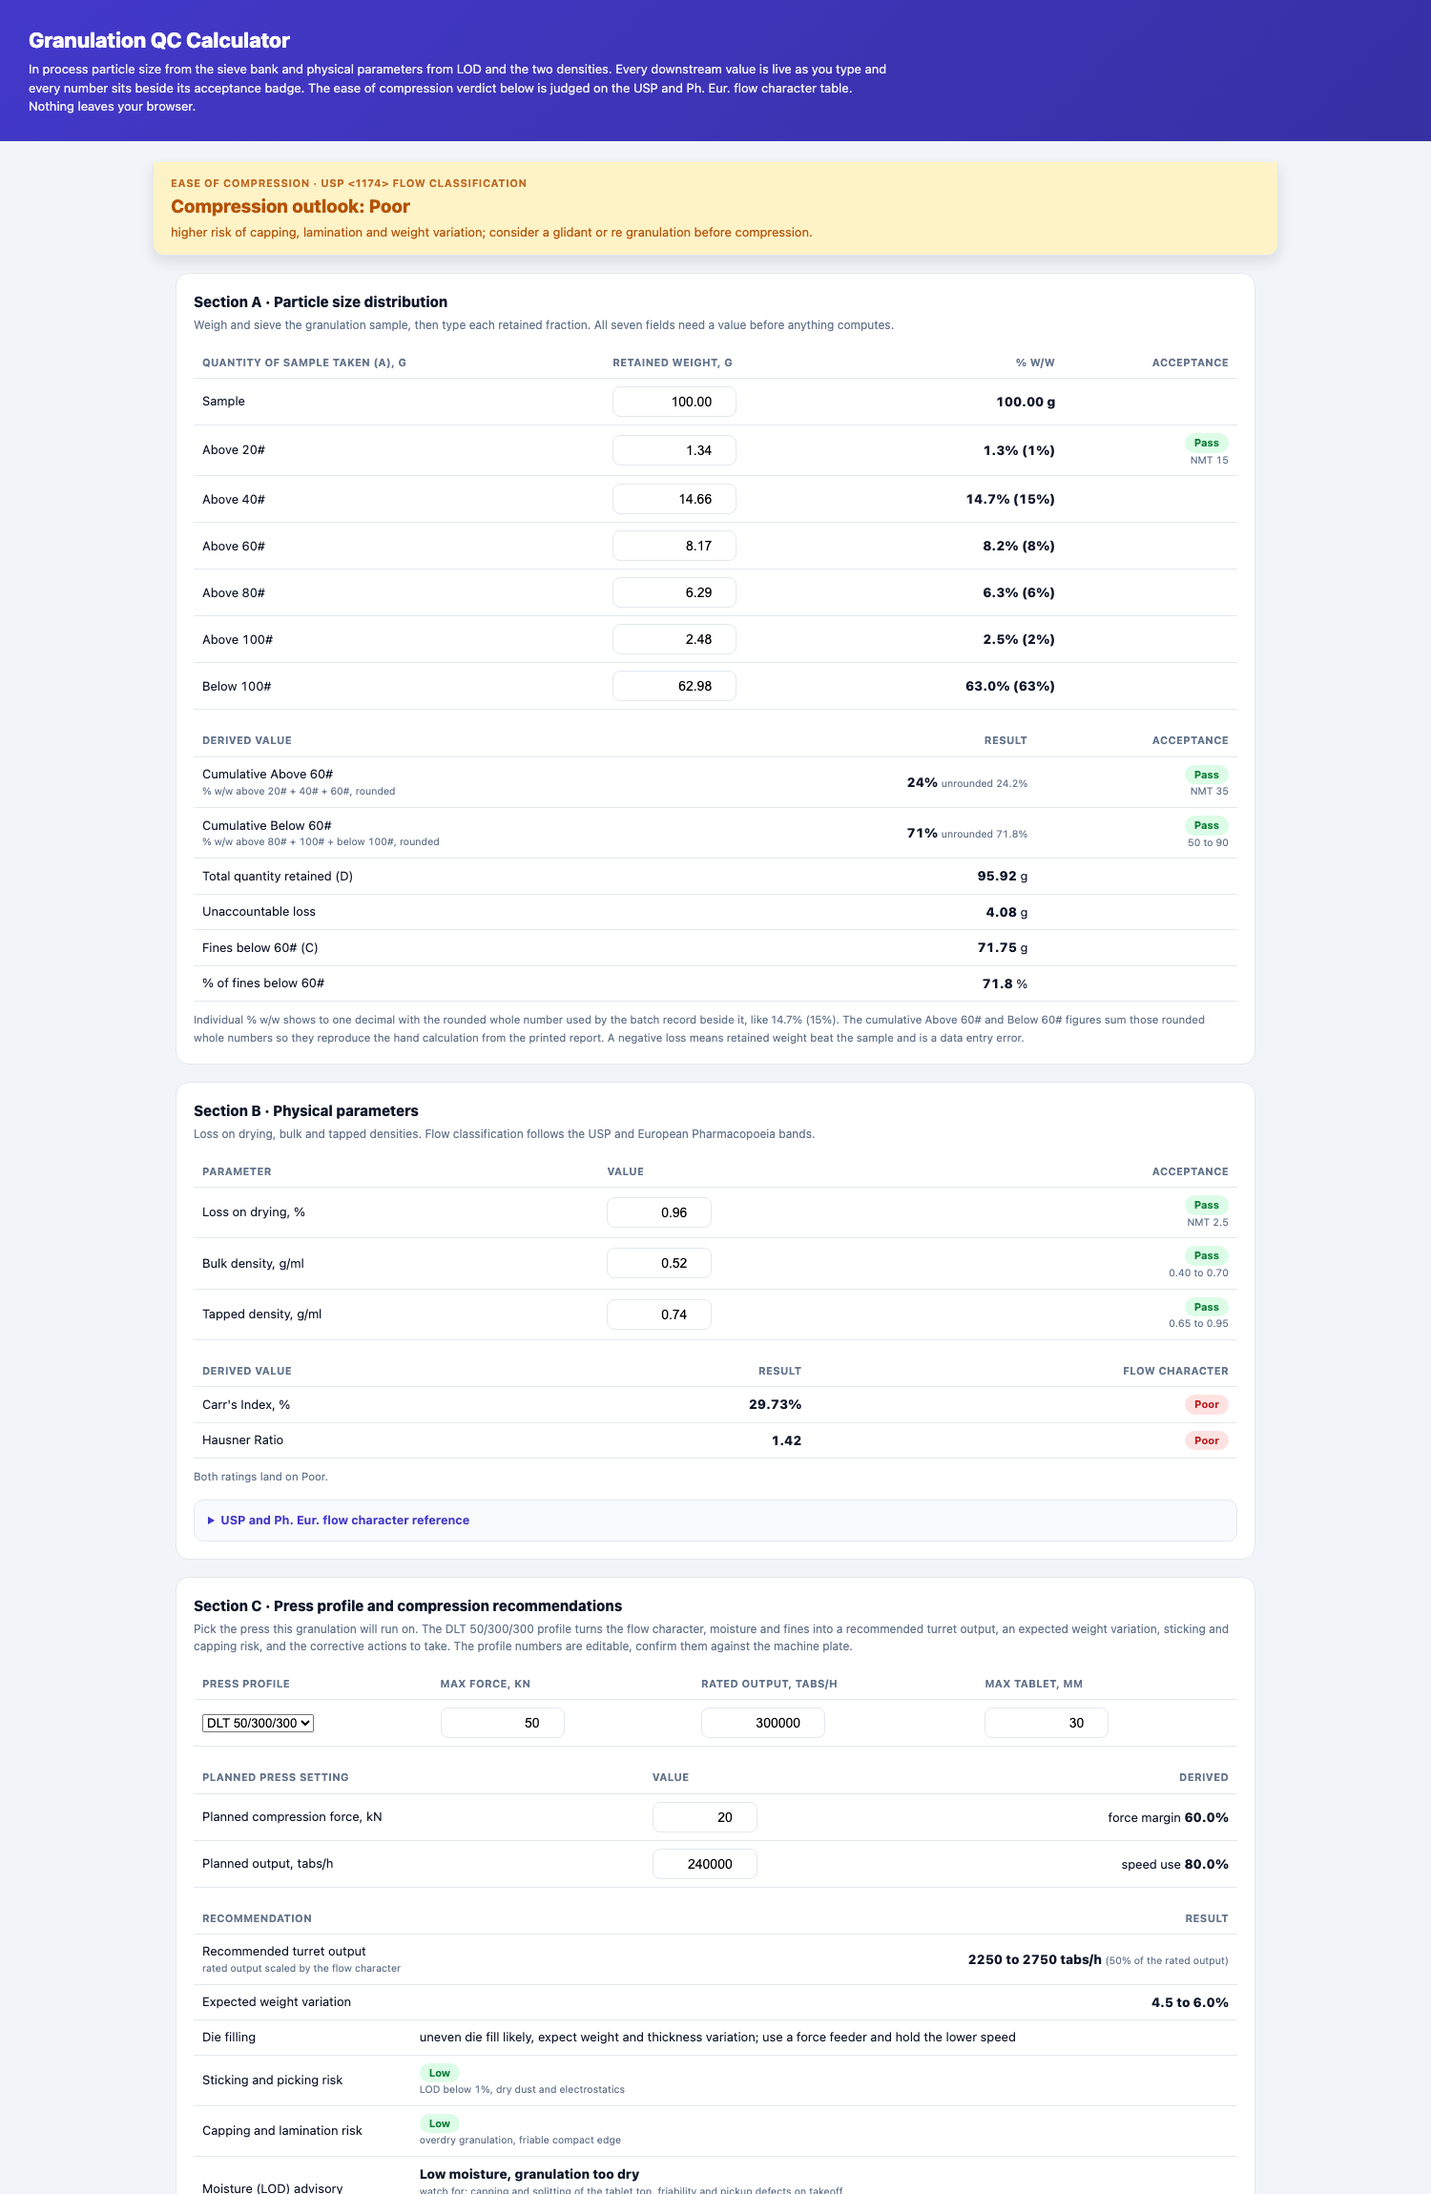
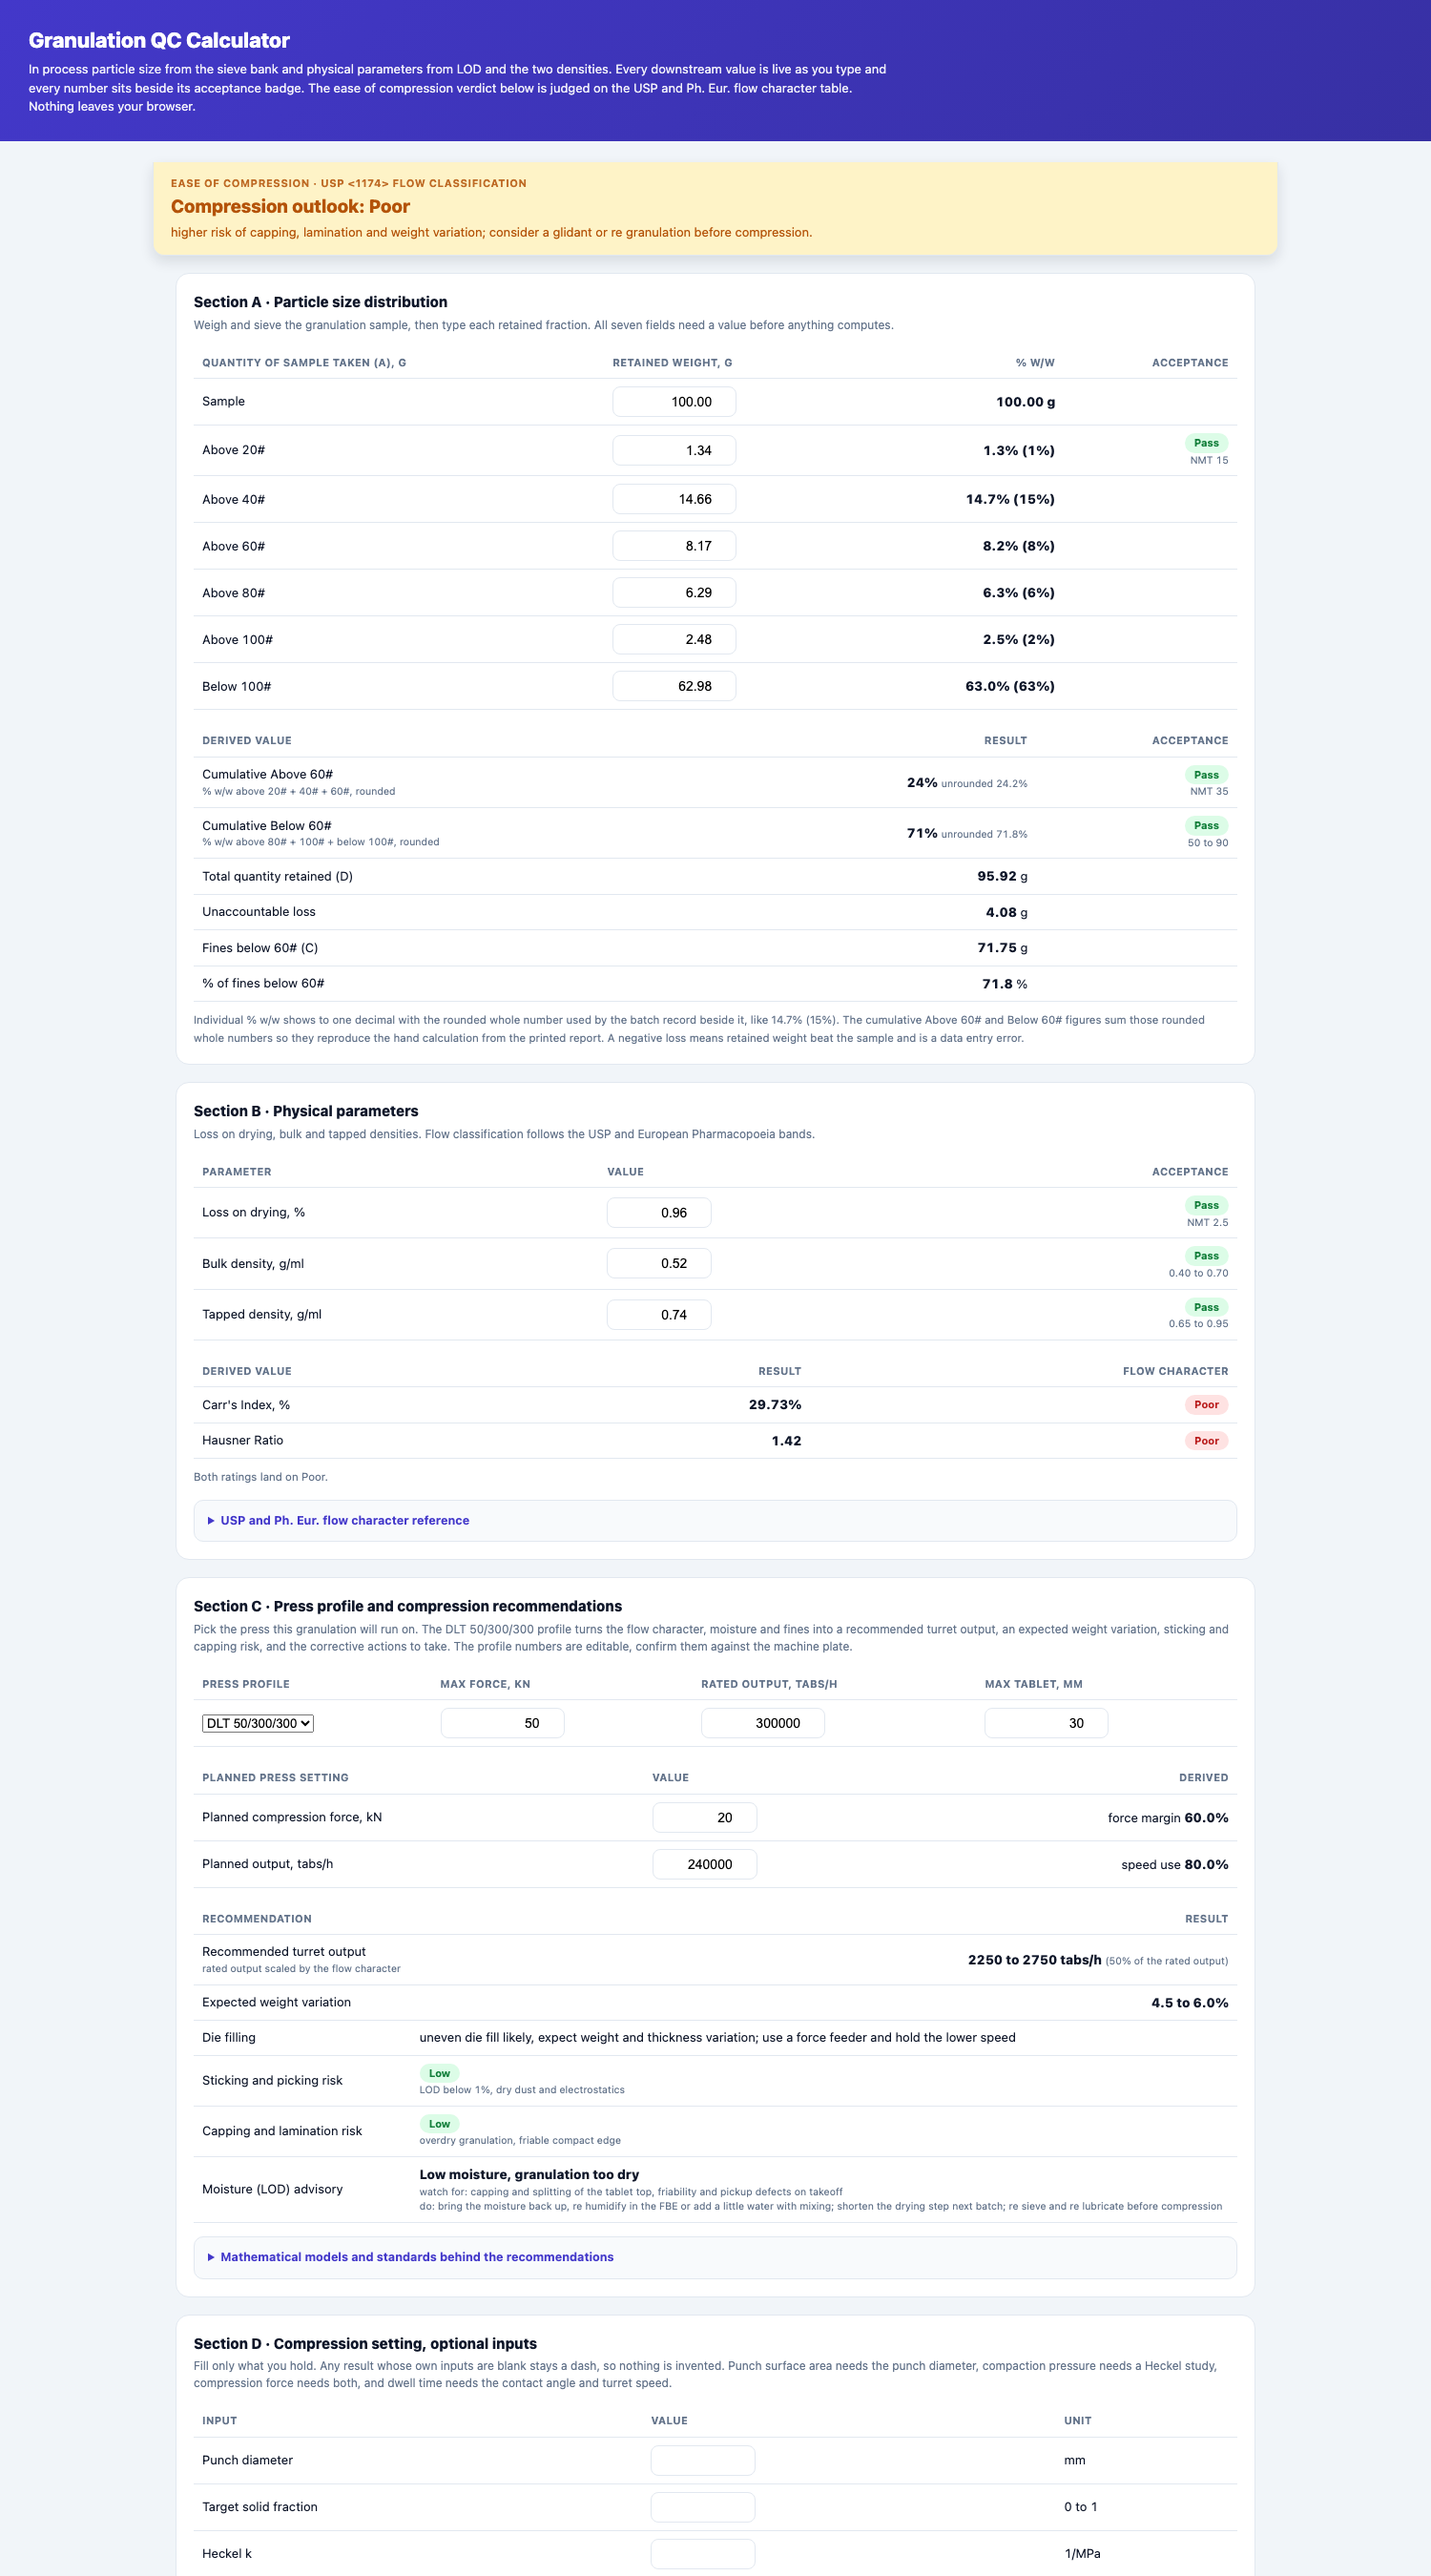
Add optional compression setting section with punch area, pressure and force

diff --git a/index.html b/index.html
@@ -183,6 +183,32 @@
     </details>
   </div>
 
+  <div class="panel">
+    <h2>Section D &middot; Compression setting, optional inputs</h2>
+    <div class="ph">Fill only what you hold. Any result whose own inputs are blank stays a dash, so nothing is invented. Punch surface area needs the punch diameter, compaction pressure needs a Heckel study, compression force needs both, and dwell time needs the contact angle and turret speed.</div>
+    <table>
+      <thead><tr><th>Input</th><th>Value</th><th>Unit</th></tr></thead>
+      <tbody>
+        <tr><td>Punch diameter</td><td><input id="pdia" class="small" type="number" min="0.1" step="0.01"></td><td>mm</td></tr>
+        <tr><td>Target solid fraction</td><td><input id="csf" class="small" type="number" min="0.01" max="0.99" step="0.01"></td><td>0 to 1</td></tr>
+        <tr><td>Heckel k</td><td><input id="ck" class="small" type="number" min="0.0001" step="0.001"></td><td>1/MPa</td></tr>
+        <tr><td>Heckel A</td><td><input id="ca" class="small" type="number" step="0.01"></td><td></td></tr>
+        <tr><td>Contact angle</td><td><input id="calpha" class="small" type="number" min="0.1" step="0.1"></td><td>deg</td></tr>
+        <tr><td>Turret speed</td><td><input id="crpm" class="small" type="number" min="1" step="0.1"></td><td>rpm</td></tr>
+      </tbody>
+    </table>
+    <table style="margin-top:16px">
+      <thead><tr><th>Result</th><th class="right">Value</th></tr></thead>
+      <tbody>
+        <tr><td>Punch surface area</td><td class="right"><span class="outnum" id="cArea">-</span> <span class="precise" id="cAreaCm"></span></td></tr>
+        <tr><td>Required compaction pressure</td><td class="right"><span class="outnum" id="cP">-</span> <span class="precise" id="cPu"></span></td></tr>
+        <tr><td>Required compression force</td><td class="right"><span class="outnum" id="cF">-</span> <span class="precise" id="cFu"></span></td></tr>
+        <tr><td>Punch dwell time</td><td class="right"><span class="outnum" id="cDwell">-</span> <span class="precise" id="cDu"></span></td></tr>
+      </tbody>
+    </table>
+    <div class="note">Punch surface area is A = pi x (d/2)^2. Dwell time is t = (contact angle / 360) x (60 / rpm). Heckel pressure is P = (ln(1 / (1 - D)) - A) / k and force is F = P x A, with 1 MPa equal to 1 N/mm2. The Heckel k and A come from a compaction study on the blend, so leave them blank until you have that.</div>
+  </div>
+
   <div class="btnrow"><button class="btn" id="reset">Reset all fields</button></div>
 </div>
 <footer>granulation-qc-calculator &middot; all results stay in the browser</footer>
@@ -380,21 +406,41 @@ function computeC(){
   $("lodDef").textContent=la.defects.length?("watch for: "+la.defects.join(", ")):"";
   $("lodAct").textContent="do: "+la.actions.join("; ");
 }
+function computeD(){
+  const d=nf($("pdia").value), sf=nf($("csf").value), k=nf($("ck").value), a=nf($("ca").value);
+  const al=nf($("calpha").value), rpm=nf($("crpm").value);
+  let area=null, cm2=null, P=null, F=null, dwell=null;
+  if(d&&d>0){ area=Math.PI*Math.pow(d/2,2); cm2=area/100; }
+  if(sf!=null&&k!=null&&a!=null&&sf>0&&sf<1&&k>0){ P=(Math.log(1/(1-sf))-a)/k; }
+  if(P!=null&&area!=null){ F=P*area/1000; }
+  if(al&&rpm&&rpm>0){ dwell=(al/360)*(60/rpm)*1000; }
+  $("cArea").textContent=area!=null?fmt(area,2):"-";
+  $("cAreaCm").textContent=cm2!=null?"("+fmt(cm2,3)+" cm2)":"";
+  $("cP").textContent=P!=null?fmt(P,2):"-";
+  $("cPu").textContent=P!=null?"MPa":"";
+  $("cF").textContent=F!=null?fmt(F,2):"-";
+  $("cFu").textContent=F!=null?"kN":"";
+  $("cDwell").textContent=dwell!=null?fmt(dwell,1):"-";
+  $("cDu").textContent=dwell!=null?"ms":"";
+}
 $("modelRows").innerHTML=MODELS.map(m=>"<tr><td><b>"+m[0]+"</b></td><td>"+m[1]+"</td><td>"+m[2]+"</td></tr>").join("");
 [$("A"),...S.map(id=>$(id)),$("lod"),$("bd"),$("td"),
- $("pf"),$("pr"),$("pd"),$("bf"),$("bo")]
-  .forEach(el=>el.addEventListener("input",()=>{computeA();computeB();computeC();}));
+ $("pf"),$("pr"),$("pd"),$("bf"),$("bo"),
+ $("pdia"),$("csf"),$("ck"),$("ca"),$("calpha"),$("crpm")]
+  .forEach(el=>el.addEventListener("input",()=>{computeA();computeB();computeC();computeD();}));
 $("reset").addEventListener("click",()=>{
   $("A").value="100.00";S.forEach(id=>$(id).value="");
   $("lod").value="";$("bd").value="";$("td").value="";
   $("pf").value="50";$("pr").value="300000";$("pd").value="30";
   $("bf").value="20";$("bo").value="240000";
-  computeA();computeB();computeC();});
+  $("pdia").value="";$("csf").value="";$("ck").value="";$("ca").value="";
+  $("calpha").value="";$("crpm").value="";
+  computeA();computeB();computeC();computeD();});
 if(location.search.includes("demo")){
   $("A").value="100.00";
   [["s20",1.34],["s40",14.66],["s60",8.17],["s80",6.29],["s100",2.48],["sB",62.98]]
     .forEach(([id,v])=>$(id).value=String(v));
   $("lod").value="0.96";$("bd").value="0.52";$("td").value="0.74";
 }
-computeA();computeB();computeC();
+computeA();computeB();computeC();computeD();
 </script>

diff --git a/granulation_qc.py b/granulation_qc.py
@@ -4,6 +4,7 @@ Pure python, no dependencies. Mirror of the interactive dashboard at
 https://marknwilliam.github.io/granulation-qc-calculator/
 """
 from decimal import Decimal, ROUND_HALF_UP
+import math
 
 ORDER = ("above20", "above40", "above60", "above80", "above100", "below100")
 SIEVE_BANDS = (("Above 20#", "above20"), ("Above 40#", "above40"),
@@ -264,3 +265,56 @@ def recommendations(worse_rating, lod, rated_output_tph, fines_pct):
         die_fill = "die fill should stay uniform at the recommended speed"
     return {"speed": speed, "weight": WEIGHT_RSD[worse_rating],
             "lod": lodv, "die_fill": die_fill}
+
+
+def punch_area(diameter_mm):
+    """Punch face area from the punch diameter, in square mm and square cm."""
+    r = float(diameter_mm) / 2.0
+    mm2 = math.pi * r * r
+    return {"mm2": mm2, "cm2": mm2 / 100.0}
+
+
+def dwell_time(alpha_deg, rpm):
+    """Punch dwell time t = (contact angle / 360) x (60 / rpm)."""
+    if rpm <= 0:
+        raise ValueError("Turret speed must be greater than zero")
+    seconds = (float(alpha_deg) / 360.0) * (60.0 / float(rpm))
+    return {"seconds": seconds, "ms": seconds * 1000.0}
+
+
+def heckel_pressure(solid_fraction, k, a):
+    """Pressure to reach a relative density from the Heckel equation.
+
+    ln(1 / (1 - D)) = k P + A, so P = (ln(1 / (1 - D)) - A) / k with k = 1/Py.
+    """
+    if not (0.0 < solid_fraction < 1.0):
+        raise ValueError("Solid fraction must be between 0 and 1")
+    if k <= 0:
+        raise ValueError("Heckel k must be greater than zero")
+    return (math.log(1.0 / (1.0 - float(solid_fraction))) - float(a)) / float(k)
+
+
+def compression_force(pressure_mpa, area_mm2):
+    """Force in kN from pressure in MPa (1 MPa = 1 N/mm2) and area in mm2."""
+    return float(pressure_mpa) * float(area_mm2) / 1000.0
+
+
+def compression_setting(diameter_mm=None, solid_fraction=None, heckel_k=None,
+                        heckel_a=None, alpha_deg=None, rpm=None):
+    """Optional compression setting.
+
+    Every result stays None until its own inputs are present, so nothing is
+    invented from data the plant does not hold.
+    """
+    out = {"area_mm2": None, "area_cm2": None, "pressure_mpa": None,
+           "force_kn": None, "dwell_ms": None}
+    if diameter_mm:
+        a = punch_area(diameter_mm)
+        out["area_mm2"], out["area_cm2"] = a["mm2"], a["cm2"]
+    if solid_fraction is not None and heckel_k is not None and heckel_a is not None:
+        out["pressure_mpa"] = heckel_pressure(solid_fraction, heckel_k, heckel_a)
+    if out["pressure_mpa"] is not None and out["area_mm2"] is not None:
+        out["force_kn"] = compression_force(out["pressure_mpa"], out["area_mm2"])
+    if alpha_deg and rpm:
+        out["dwell_ms"] = dwell_time(alpha_deg, rpm)["ms"]
+    return out

diff --git a/test_granulation_qc.py b/test_granulation_qc.py
@@ -254,5 +254,52 @@ class Recommendations(unittest.TestCase):
         self.assertEqual(len(g.MODELS), 7)
 
 
+class CompressionSetting(unittest.TestCase):
+    def test_punch_area_8mm(self):
+        a = g.punch_area(8)
+        self.assertAlmostEqual(a["mm2"], 50.2655, places=3)
+        self.assertAlmostEqual(a["cm2"], 0.50265, places=4)
+
+    def test_dwell_time(self):
+        d = g.dwell_time(22, 50)
+        self.assertAlmostEqual(d["ms"], 73.333, places=2)
+
+    def test_heckel_pressure(self):
+        p = g.heckel_pressure(0.85, 0.01, 0.5)
+        self.assertAlmostEqual(p, 139.72, places=1)
+
+    def test_compression_force_units(self):
+        f = g.compression_force(139.72, 50.2655)
+        self.assertAlmostEqual(f, 7.023, places=2)
+
+    def test_setting_full(self):
+        s = g.compression_setting(8, 0.85, 0.01, 0.5, 22, 50)
+        self.assertAlmostEqual(s["area_mm2"], 50.2655, places=3)
+        self.assertAlmostEqual(s["pressure_mpa"], 139.72, places=1)
+        self.assertAlmostEqual(s["force_kn"], 7.023, places=2)
+        self.assertAlmostEqual(s["dwell_ms"], 73.333, places=2)
+
+    def test_setting_without_heckel_leaves_pressure_and_force_blank(self):
+        s = g.compression_setting(8, alpha_deg=22, rpm=50)
+        self.assertAlmostEqual(s["area_mm2"], 50.2655, places=3)
+        self.assertIsNone(s["pressure_mpa"])
+        self.assertIsNone(s["force_kn"])
+        self.assertAlmostEqual(s["dwell_ms"], 73.333, places=2)
+
+    def test_setting_without_diameter_leaves_area_and_force_blank(self):
+        s = g.compression_setting(solid_fraction=0.85, heckel_k=0.01, heckel_a=0.5)
+        self.assertIsNone(s["area_mm2"])
+        self.assertIsNone(s["force_kn"])
+        self.assertAlmostEqual(s["pressure_mpa"], 139.72, places=1)
+
+    def test_setting_all_blank(self):
+        s = g.compression_setting()
+        self.assertTrue(all(v is None for v in s.values()))
+
+    def test_heckel_a_zero_is_accepted(self):
+        s = g.compression_setting(8, 0.85, 0.01, 0, None, None)
+        self.assertIsNotNone(s["pressure_mpa"])
+
+
 if __name__ == "__main__":
     unittest.main()

diff --git a/README.md b/README.md
@@ -4,7 +4,7 @@
 
 **Turns in process sieve and physical granulation data into the batch record figures every granulation section fills out, with USP and Ph. Eur. flow classification and a plain language ease of compression verdict.**
 
-[![Tests](https://img.shields.io/badge/tests-45%20passing-green)](#)
+[![Tests](https://img.shields.io/badge/tests-54%20passing-green)](#)
 [![Python](https://img.shields.io/badge/python-3.9%2B-blue)](#)
 [![Deps](https://img.shields.io/badge/deps-none-brightgreen)](#)
 [![License](https://img.shields.io/badge/license-MIT-green)](#)
@@ -29,6 +29,8 @@ Section A wants the sample weight in grams and the retained weight on each of th
 Section B badges LOD against NMT 2.5, bulk density against 0.40 to 0.70 and tapped density against 0.65 to 0.95, then computes Carr's Index and Hausner Ratio the moment both densities are in, tagging each with its flow character band. When the two ratings differ, both show and the worse one drives.
 
 Section C carries the press profile. The DLT 50/300/300 is loaded with an editable maximum force, rated output and maximum tablet size, so confirm the numbers against the machine plate. With the batch complete the tool recommends a permissible turret output as a band of tablets per hour and a percent of the press rating, the flow character setting the factor, an expected weight variation band, and a die fill note. It scores sticking and picking risk and capping and lamination risk from the LOD, the fines, the oversize, the flow rating and the planned press settings, listing each contributing factor, and it prints the moisture window advisory with the corrective actions, re humidify when too dry, re dry and re lubricate when too wet.
+
+Section D is optional and takes only what you hold. Punch diameter gives the punch surface area A = pi x (d/2)^2. Contact angle and turret speed give the dwell time t = (contact angle / 360) x (60 / rpm). A Heckel study, that is k and A plus a target solid fraction, gives the compaction pressure P = (ln(1 / (1 - D)) - A) / k, and pressure with area gives the force F = P x A with 1 MPa equal to 1 N/mm2. Every result stays a dash until its own inputs are present, so the tool never invents a force from granulation data alone.
 
 The recommendation engine leans on standard models: Carr and Hausner for flow and compressibility read with USP <1174>, the Beverloo orifice flow law for die fill, the dwell time relation t = (contact angle / 360) x (60 / rpm), and the Heckel, Ryshkewitch-Duckworth and Leuenberger compaction models that explain capping and lamination. The in process specification and USP <905> frame the weight variation. All of it is advisory and is confirmed on the first compression.
 
@@ -59,7 +61,7 @@ Worked example batch QK260454: % w/w reads 1.3% (1%), 14.7% (15%), 8.2% (8%), 6.
 granulation-qc-calculator/
 ├── index.html             # interactive dashboard (open this)
 ├── granulation_qc.py      # sieve, flow and verdict library + helpers
-├── test_granulation_qc.py # 45 unit tests
+├── test_granulation_qc.py # 54 unit tests
 ├── docs/                  # README preview screenshot
 └── README.md
 ```
